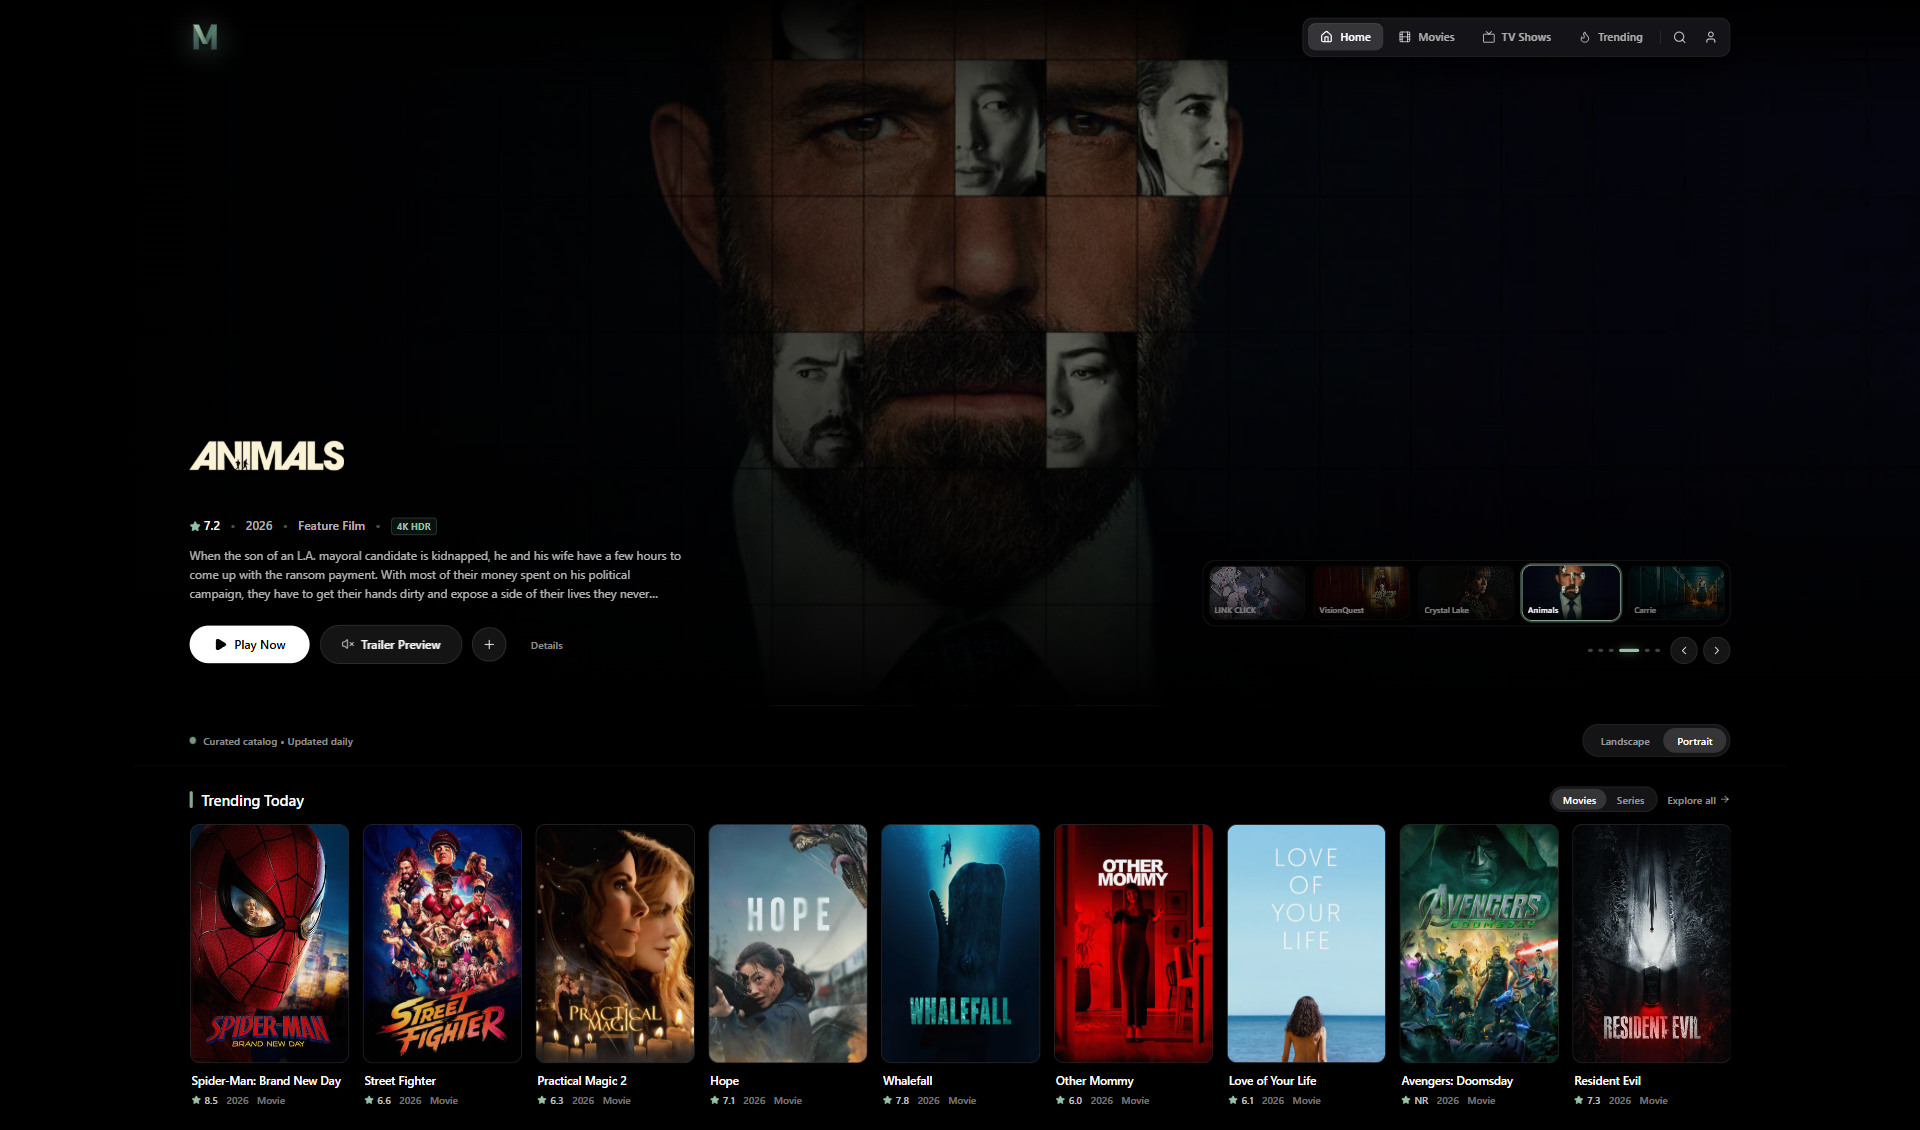
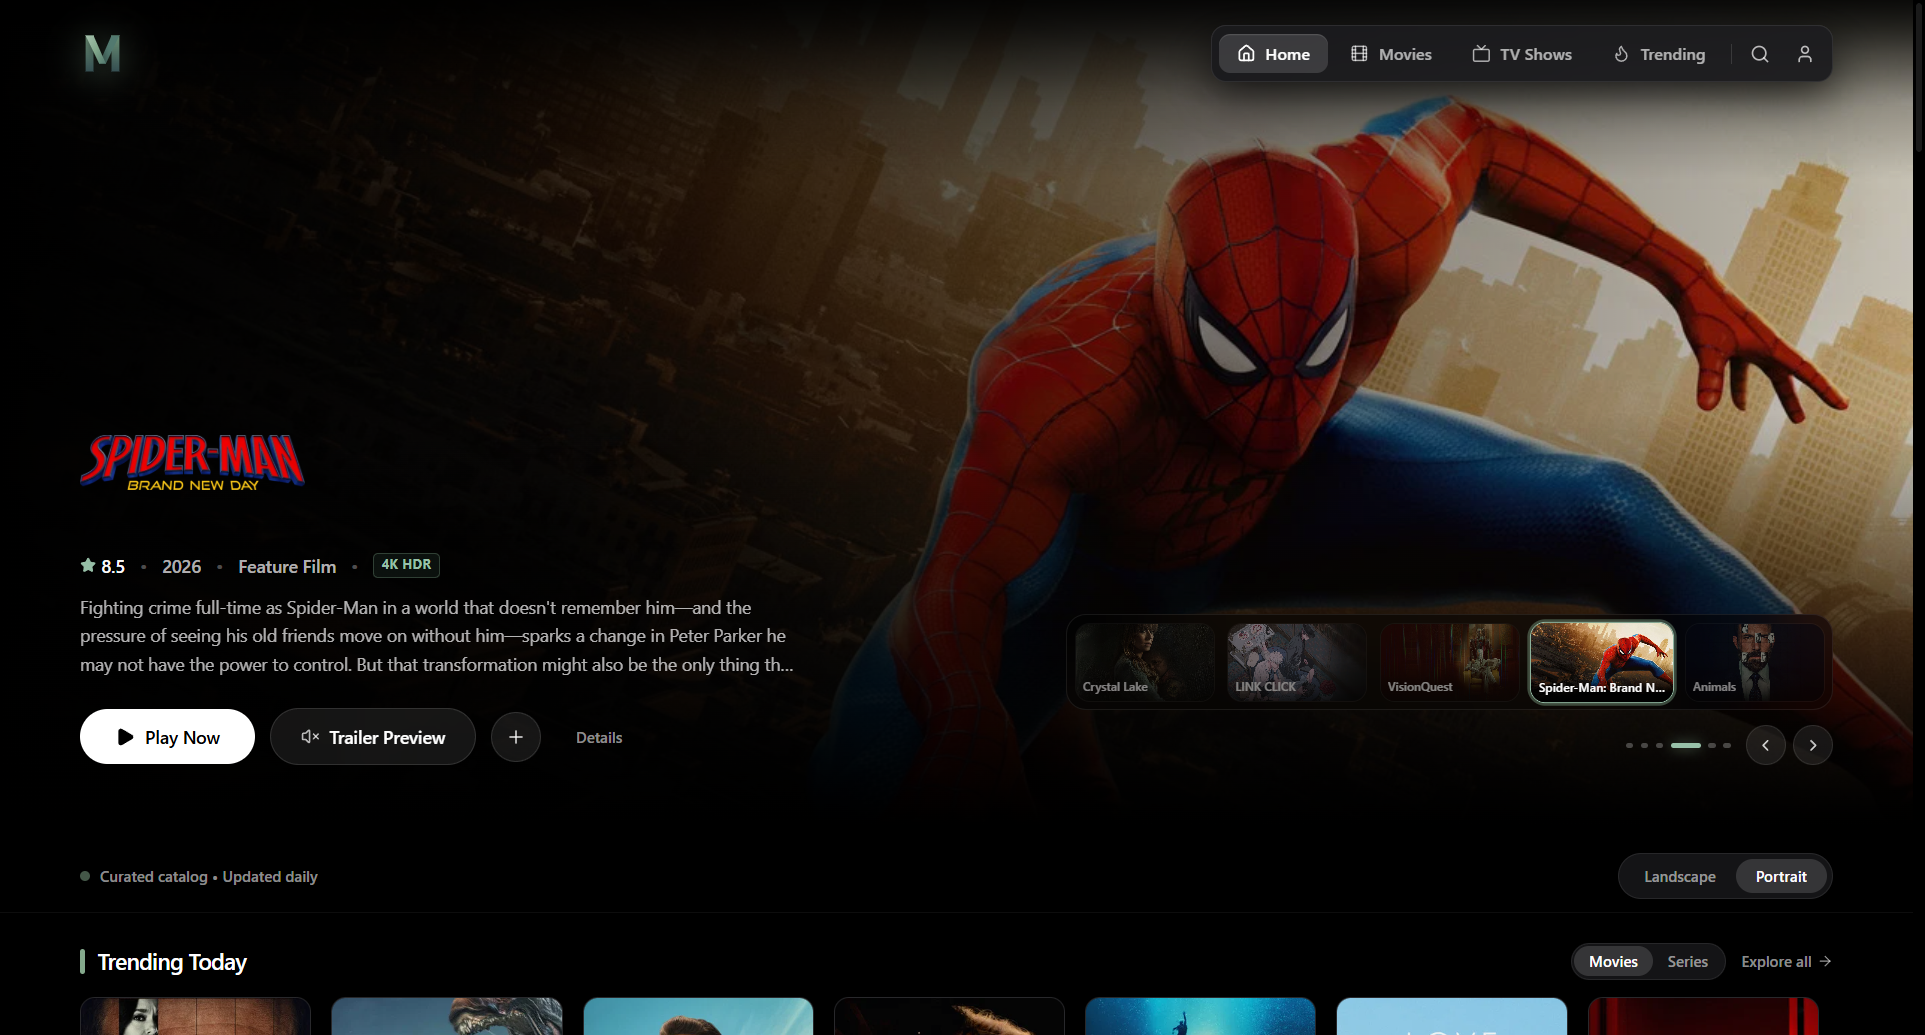
fix

diff --git a/src/app/globals.css b/src/app/globals.css
@@ -122,8 +122,8 @@
     background-color: var(--bg-page);
     color: var(--text-ink);
     font-family: 'Figtree', -apple-system, BlinkMacSystemFont, 'Segoe UI', Roboto, sans-serif;
-    -ms-overflow-style: none !important;
-    scrollbar-width: none !important;
+    scrollbar-width: thin;
+    scrollbar-color: var(--border, rgba(120, 120, 120, 0.3)) transparent;
   }
 
   body {
@@ -131,25 +131,25 @@
     color: var(--text-ink);
     min-height: 100vh;
     overflow-x: hidden;
-    -ms-overflow-style: none !important;
-    scrollbar-width: none !important;
   }
 
-  /* Universal scrollbar removal across all pages, containers, and browsers */
-  html,
-  body,
-  * {
-    -ms-overflow-style: none !important;
-    scrollbar-width: none !important;
+  /* Technical Editorial Scrollbar (Clean 6px subtle scroll indicator) */
+  ::-webkit-scrollbar {
+    width: 6px;
+    height: 6px;
   }
 
-  html::-webkit-scrollbar,
-  body::-webkit-scrollbar,
-  *::-webkit-scrollbar {
-    display: none !important;
-    width: 0 !important;
-    height: 0 !important;
-    background: transparent !important;
+  ::-webkit-scrollbar-track {
+    background: transparent;
+  }
+
+  ::-webkit-scrollbar-thumb {
+    background: var(--border, rgba(150, 150, 150, 0.3));
+    border-radius: 3px;
+  }
+
+  ::-webkit-scrollbar-thumb:hover {
+    background: var(--text-muted, rgba(150, 150, 150, 0.6));
   }
 
   ::selection {

diff --git a/src/components/PortfolioShell.tsx b/src/components/PortfolioShell.tsx
@@ -102,6 +102,7 @@ export function PortfolioShell({ children }: PortfolioShellProps) {
   const isFocus = mode === "focus";
   const isMinimal = mode === "minimal";
   const isAgent = mode === "agent" || pathname === "/artisan";
+  const isAgentHome = (mode === "agent" && pathname === "/") || pathname === "/artisan";
   // Omit the scenic footer when reading an individual chosen field note (/notes/:slug)
   const isReadingNote = pathname.startsWith("/notes/") && pathname !== "/notes";
   const { state: creative, active: creativeActive, effectiveMotion } = useCreativeMode();
@@ -115,10 +116,10 @@ export function PortfolioShell({ children }: PortfolioShellProps) {
       style={{
         "--creative-grid-opacity": creativeActive ? 1 : 0,
         ...(creativeActive && mapping ? { maxWidth: mapping.widths[creative.contentWidth] } : {}),
-        ...(mode !== "agent" && pathname !== "/artisan" ? { paddingBottom: 0 } : {}),
+        ...(!isAgentHome ? { paddingBottom: 0 } : {}),
       } as React.CSSProperties}
       className={`${styles.content} w-full mx-auto relative min-h-screen flex flex-col justify-between z-10 ${
-        isAgent
+        isAgentHome
           ? "w-full max-w-none p-0 m-0 min-h-screen flex flex-col"
           : isMinimal
           ? "max-w-[640px] px-5 sm:px-6 md:px-8 pt-8 pb-20"

diff --git a/src/app/projects/ProjectsPageClient.tsx b/src/app/projects/ProjectsPageClient.tsx
@@ -81,7 +81,6 @@ export function ProjectsPageClient() {
                 alt={project.title}
                 sizes="(max-width: 640px) 100vw, 360px"
                 className="mb-3"
-                category={project.category}
                 badge={
                   project.status && (
                     <ProjectStatusBadge
@@ -99,9 +98,11 @@ export function ProjectsPageClient() {
                   <h2 className="font-sans text-sm font-semibold text-ink group-hover:text-brand transition-colors duration-150">
                     {project.title}
                   </h2>
-                  <span className="font-mono text-[11px] text-muted-foreground flex-shrink-0">
-                    {project.year}
-                  </span>
+                  <div className="flex items-center gap-1.5 font-mono text-[11px] text-muted-foreground flex-shrink-0">
+                    <span>{project.category}</span>
+                    <span>•</span>
+                    <span>{project.year}</span>
+                  </div>
                 </div>
 
                 <p className="font-mono text-xs text-muted-foreground line-clamp-3 leading-relaxed">

diff --git a/src/components/ProjectMedia.tsx b/src/components/ProjectMedia.tsx
@@ -102,7 +102,7 @@ export function ProjectMedia({
         <motion.div
           initial={{ scaleX: 1, opacity: 1 }}
           whileInView={{ scaleX: 0, opacity: 0 }}
-          viewport={{ once: true, amount: 0.1 }}
+          viewport={{ once: true, amount: 0.01 }}
           transition={{ duration: 0.42, ease: easeOutCubic }}
           style={{ transformOrigin: "right" }}
           aria-hidden="true"

diff --git a/src/features/presentation-modes/components/PresentationModeSwitcher.tsx b/src/features/presentation-modes/components/PresentationModeSwitcher.tsx
@@ -127,7 +127,7 @@ export function PresentationModeSwitcher({
     const originalOverflow = document.body.style.overflow;
     document.body.style.overflow = "hidden";
     return () => {
-      document.body.style.overflow = originalOverflow;
+      document.body.style.overflow = originalOverflow === "hidden" ? "" : originalOverflow;
     };
   }, [isOpen]);
 
